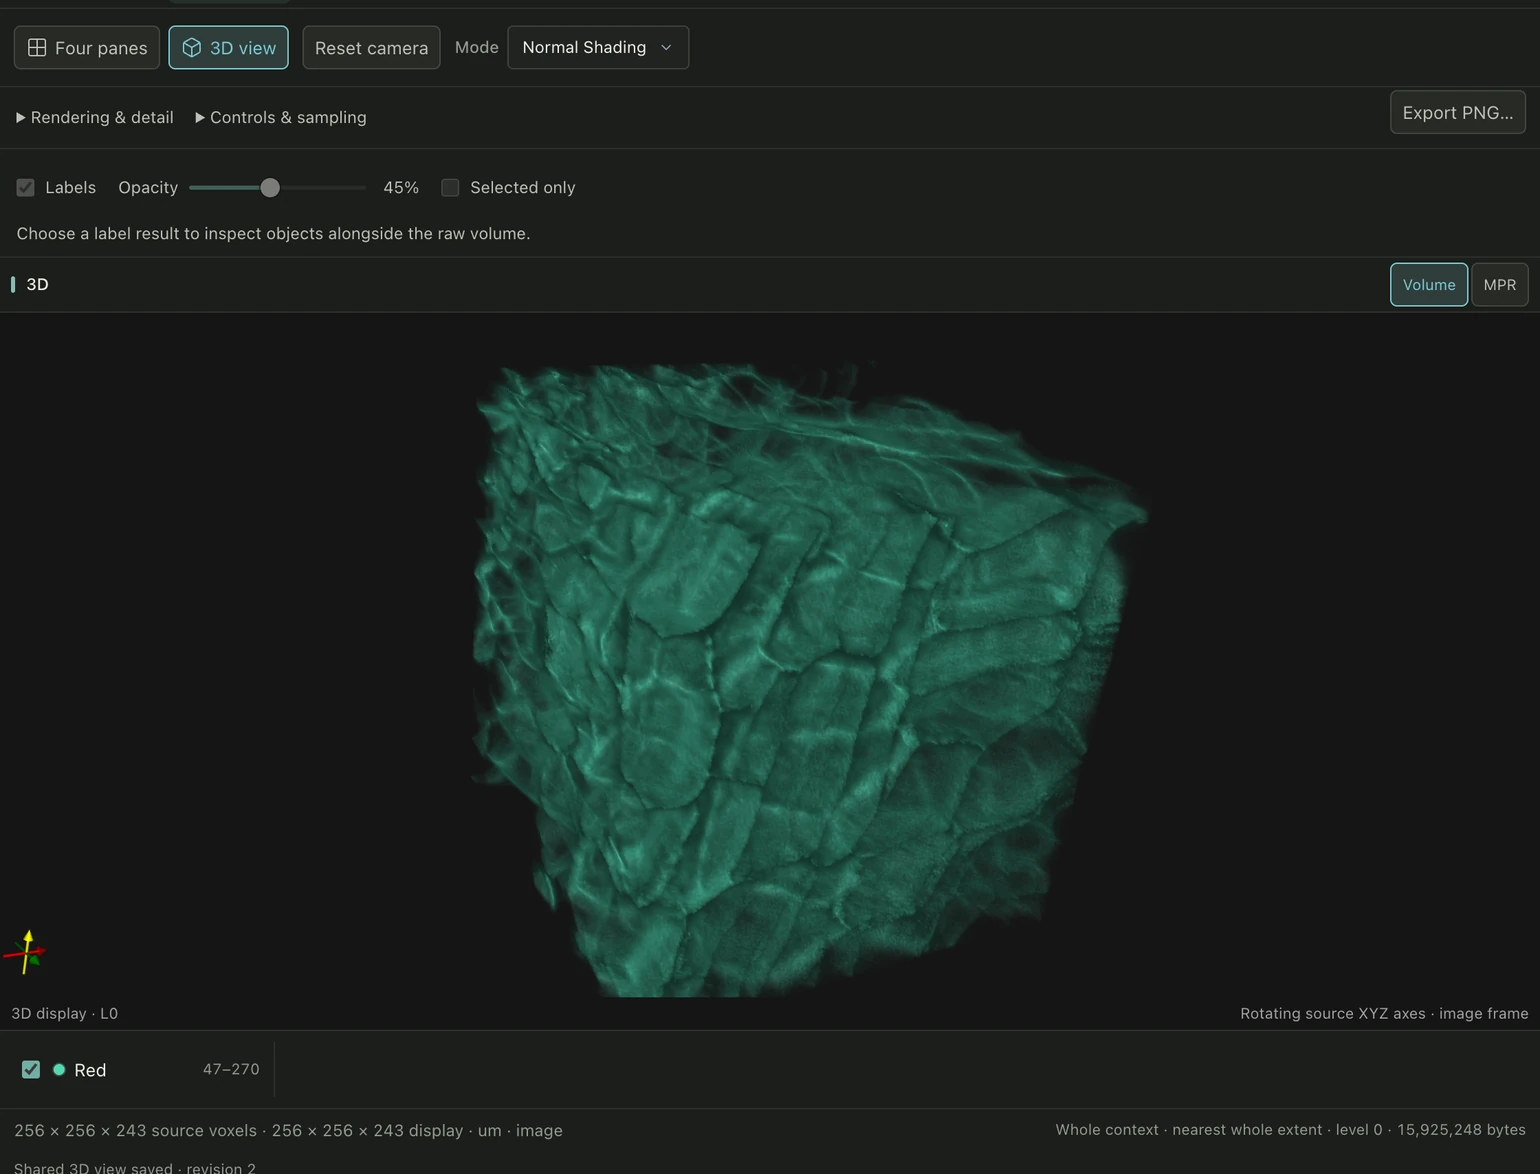
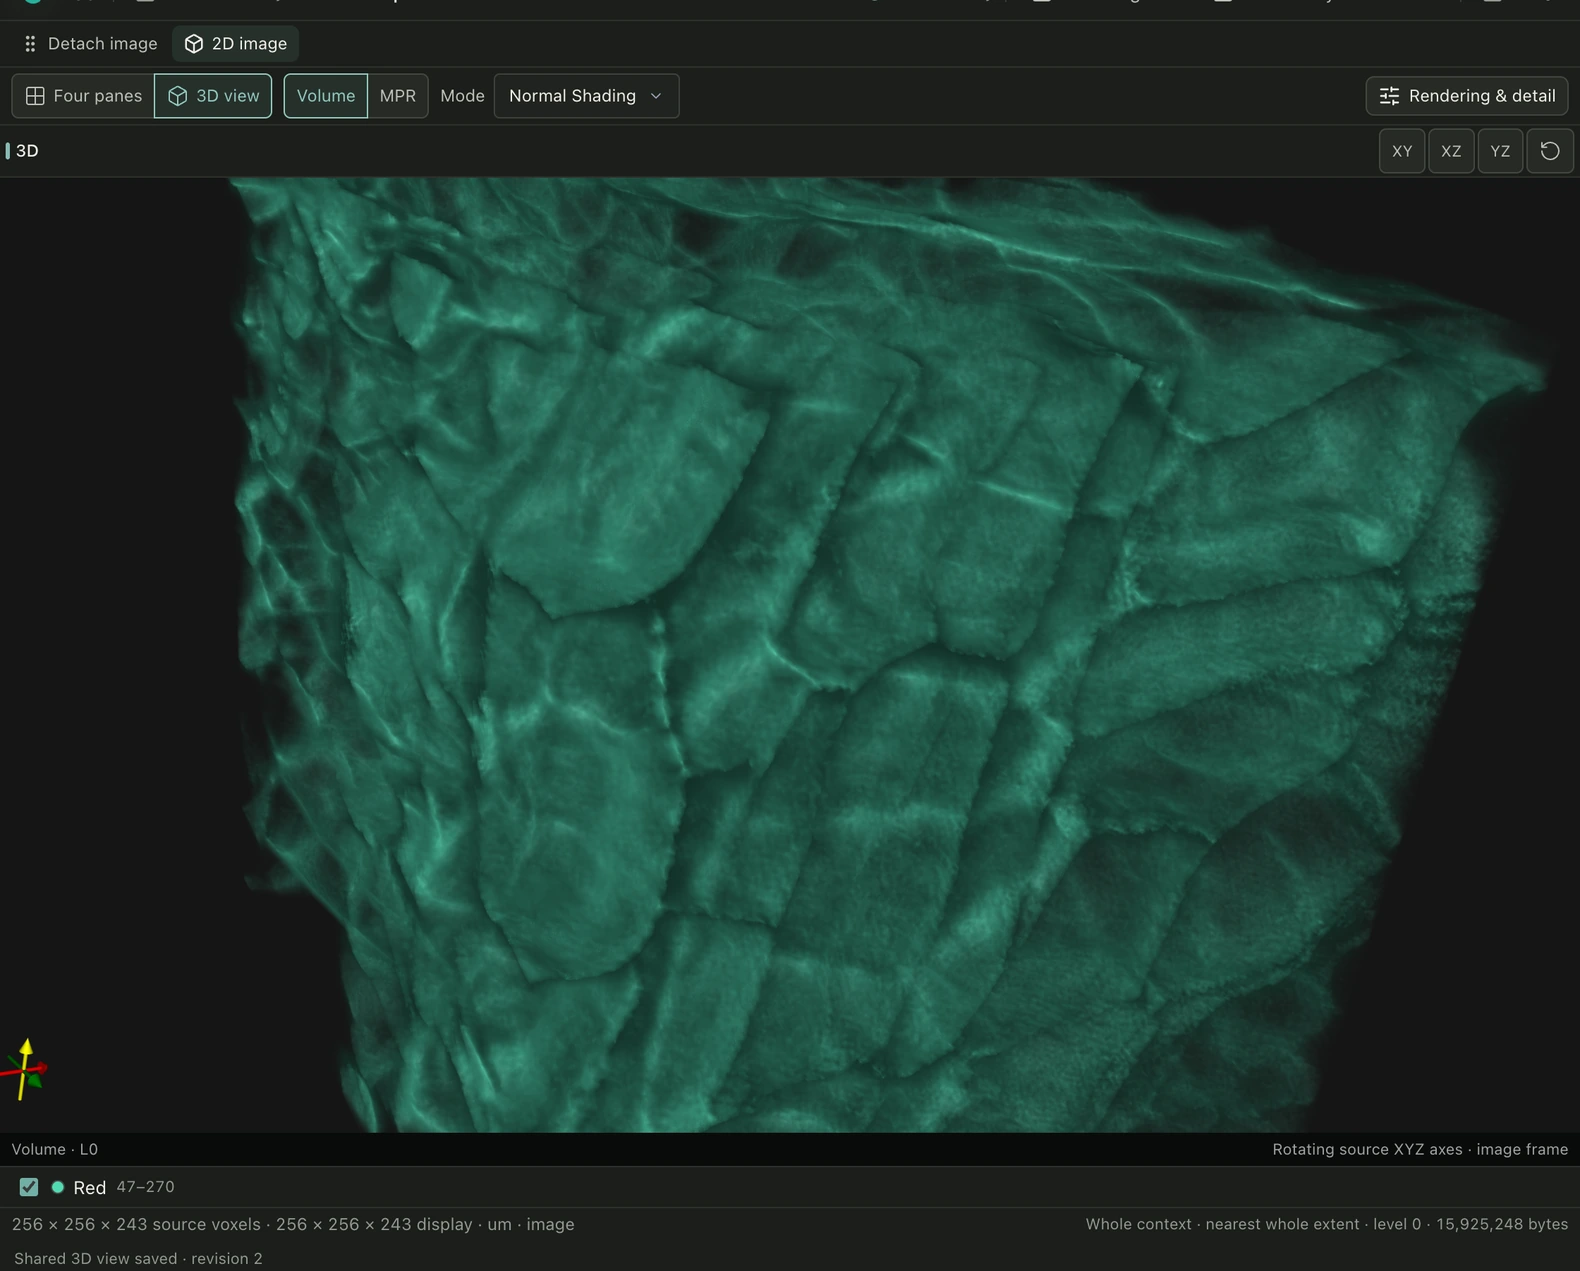
Show the current 3D controls and inspected multichannel Cellpose workflow

diff --git a/README.md b/README.md
@@ -20,7 +20,7 @@ Step through a Z stack one optical section at a time, or summarize a selected Z 
 
 ![Teal shaded rendering of an Arabidopsis ovule in Loci’s 3D volume viewer](docs/media/tour/volume-3d.webp)
 
-This 256 × 256 × 243 confocal volume of a wild-type *Arabidopsis thaliana* ovule is open directly from its Imaris IMS file. Normal shading brings out structure in the acquired intensity data. Rotate the volume, adjust opacity or clip it to look inside, then use the linked crosshair to find the same point in the source planes. [Volume and multiplanar views](docs/USING_LOCI.md#inspect-scalar-volumes-and-mpr)
+This 256 × 256 × 243 confocal volume of a wild-type *Arabidopsis thaliana* ovule is open directly from its Imaris IMS file. Normal shading brings out structure in the acquired intensity data. In the 3D pane, orbit freely or select **XY**, **XZ** or **YZ** to look along a source axis. Snapping or resetting the camera keeps the crosshair on the same voxel in all three sections. [Volume and multiplanar views](docs/USING_LOCI.md#inspect-scalar-volumes-and-mpr)
 
 ### Whole-slide brightfield
 
@@ -77,9 +77,13 @@ Browse ten workflows in **File → Model Zoo…**. Filter by task or execution l
 
 ## Assistant connection
 
-Choose **Codex** or **Antigravity** in **Connect an assistant**. Select the image, region, channels, planes and operations to share, then open the generated workspace in the host. Prompt the assistant in its chat and follow its jobs in Loci. Choose **Confirm changes in Loci** to review changes before approving them. The Model Context Protocol (MCP) server runs locally. Your host and its provider can receive the image content and study records you authorize. [Assistant walkthrough](docs/AGENT_ACCESS.md#compare-two-segmentation-methods-with-your-assistant) · [Host setup](docs/CLI.md#vision-assistants-and-local-mcp-access)
+Choose **Codex** or **Antigravity** in **Connect an assistant** and select the image, region, channels and operations to share. On macOS, **Open in Codex** opens the study workspace in the installed app. For Antigravity, copy the workspace path and add that folder to a new project. Send the first prompt in the host chat and use **Check connection** in Loci to see which client connected. The Model Context Protocol (MCP) server runs locally. Your host and its provider can receive the image content and study records you authorize. [Host setup](docs/CLI.md#vision-assistants-and-local-mcp-access)
 
-![Loci’s Connect an assistant panel with Codex selected and the Confirm changes in Loci setting visible before access is granted](docs/media/tour/assistant-connect.webp)
+![The native assistant panel beside the membrane image, with Open in Codex and Check connection available for the granted workspace](docs/media/tour/assistant-connect.webp)
+
+**Find cells in one channel and measure another.** In this 256 × 256 pixel crop, Cellpose-SAM v2 predicted six objects from the membrane channel. The assistant requested per-object measurements from the raw β-actin channel. Inspect the boundaries in Loci before approving the save. A later correction keeps the original mask and remeasures the revised objects. [Multichannel assistant walkthrough](docs/AGENT_ACCESS.md#find-cells-in-one-channel-and-measure-another)
+
+![Six Cellpose predictions with teal boundaries on the membrane image. The preview identifies channel 0 as input and channel 1 for raw measurements, with a separate approval control.](docs/media/tour/cellpose-review.webp)
 
 **Agent workspace** keeps the plan beside the image. For the nuclei comparison, open the exact model preview before approving a save. After disconnecting, use the plan’s evidence links to reopen a result or inspect its assessment. For 3D work, you can also grant the assistant access to move the crosshair or camera in the live viewer. [Shared 3D scene controls](docs/AGENT_ACCESS.md#shared-3d-scene-access)
 

diff --git a/docs/media/tour/README.md b/docs/media/tour/README.md
@@ -1,6 +1,6 @@
 # Images in the workbench tour
 
-The desktop screenshots in the [project README](../../../README.md) were captured on 27 November 2026 from the running Apple silicon development build 77. The interface uses Loci’s native Graphite and Black themes. The images were cropped or resized for reading on GitHub. The CLI capture uses the packaged command against a saved local study. The [public binary](../../RELEASE_STATUS.md) has its own release and feature history.
+The [project README](../../../README.md) shows the running Apple silicon development app. The volume and MRI views were captured on 28 November 2026 with build 78. The assistant connection and Cellpose preview were captured with build 78 on 27 November. The remaining views show build 77 on 27 November. The interface uses Loci’s native Graphite and Black themes. The images were cropped or resized for reading on GitHub. The CLI capture uses the packaged command against a saved local study. The [public binary](../../RELEASE_STATUS.md) has its own release and feature history.
 
 ## Fluorescence and cell measurements
 
@@ -19,7 +19,8 @@ The desktop screenshots in the [project README](../../../README.md) were capture
 ## Workflows
 
 - [Model Zoo](model-zoo.webp). Crop of the current ten-entry catalog showing its search, filters and first row of credited examples. Each entry identifies its model source, example and execution route. The [example credits](../README.md#model-zoo) and [model guide](../../MODEL_LIBRARY.md) identify the image and model terms separately.
-- [Connect an assistant](assistant-connect.webp). The native study-access panel is open on the BBBC034 colony above, with Codex selected and the confirmation setting visible. This is the setup screen before authorization. [Image credit and CC BY 4.0 terms](https://bbbc.broadinstitute.org/BBBC034) · [Setup and scope](../../AGENT_ACCESS.md)
+- [Connect an assistant](assistant-connect.webp). The researcher has granted Codex access to a region of the BBBC034v1 colony-center field. The panel shows how to open the workspace and check for a connected client. The screenshot was taken before that client connected. [Image credit and CC BY 4.0 terms](https://bbbc.broadinstitute.org/BBBC034) · [Setup and scope](../../AGENT_ACCESS.md)
+- [Cellpose preview and review](cellpose-review.webp). On BBBC034v1 colony-center section 40, the 256 × 256 crop starts at source pixel (320, 192). Cellpose-SAM v2 predicted six objects from the membrane channel (C0). Loci measured the original β-actin intensity (C1) in each mask. The next saved revision removed one object. The screenshot shows the boundaries before approval. [BBBC034v1 and CC BY 4.0 terms](https://bbbc.broadinstitute.org/BBBC034) · [Checkpoint](https://huggingface.co/mouseland/cellpose-sam/blob/7c61431b5fbb078f3296754bd15d9f51b320f837/cpsam_v2)
 - [Agent workspace](agent-plan.webp). The retained plan was produced through an MCP test client on the BBBC039 study. The screenshot shows the plan after disconnection, including the classical result with 67 measurement rows. The two branded CLI hosts were also exercised separately with scoped study access. [BBBC039v1, CC0](https://bbbc.broadinstitute.org/BBBC039) · [Assistant workflow](../../AGENT_ACCESS.md#compare-two-segmentation-methods-with-your-assistant)
 
 The two-minute film has its own [specimen, source and music credits](../optical-section-credits.md).
